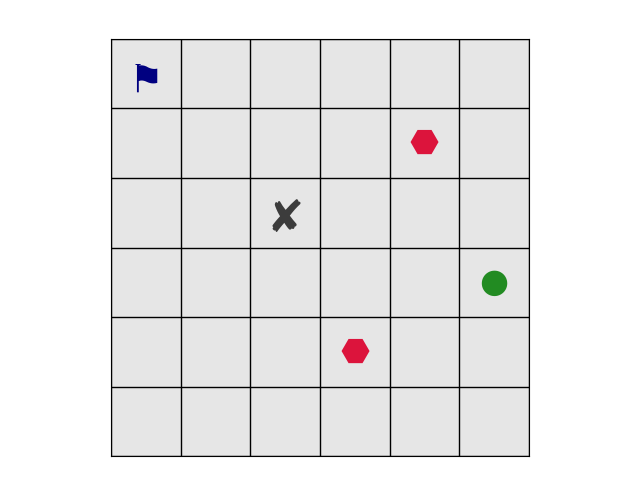
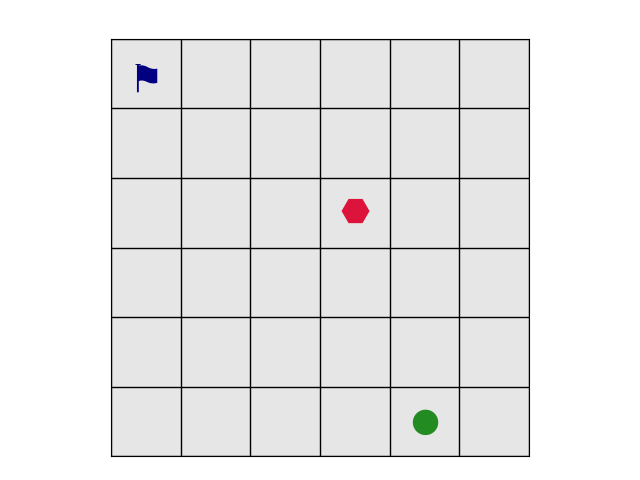
Updated descriptions

diff --git a/README.md b/README.md
@@ -3,23 +3,25 @@
 ---
 
 ## Introduction
-The goal of this project is to implement the value iteration algorithm in a 6x6 grid, populated by a goal, 
-an agent and a number of enemies. Through the algorithm we can define an optimal policy so that our agent
-can reach the goal while avoiding obstacles and enemies. 
+The goal of this project is to implement the value iteration algorithm in a grid, populated by a goal, 
+an agent and a fail cell. Both the goal and the fail cell can move randomly within the grid. Through the algorithm we can define an optimal policy so that our agent
+can reach the goal while avoiding failure. 
 
 The main step in algorithm hinges on a modified version of the Bellman optimality equation
  where the value function is iteratively improved by optimizing with respect to the previous decisions.
 
 <p align="center">
-<img src="https://latex.codecogs.com/png.image?\large\dpi{600}\bg{white}V_{k&plus;1}(x_a,x_g,x_f)=\max_u\left[r(x_a,u)&plus;\sum_{x_a',x_g',x_f'\in\,\mathbb{X}}\phi(x_a'|x_a,u)\;\phi(x_g'|x_g)\;\phi(x_f'|x_f)V_k(x_a',x_g',x_f')\right]" width="800" alt="Value Iteration step formula">
+<img src="https://latex.codecogs.com/png.image?\large\dpi{600}\bg{white}V_{k&plus;1}(x_a,x_g,x_f)=\max_u\left[r(x_a,u)&plus;\sum_{x_a',x_g',x_f'\in\,\mathbb{X}}\phi(x_a'|x_a,u)\;\phi(x_g'|x_g)\;\phi(x_f'|x_f)V_k(x_a',x_g',x_f')\right]" width="1000" alt="Value Iteration step formula">
 </p>
 where
 
-- 𝑥, 𝑥' ∈ 𝕏 (state space)
-- 𝑢 ∈ 𝕌 (action space)
-- φ(𝑥'|𝑥,𝑢) is the probability density function expressing the probability of transitioning from state 𝑥 to state 
-𝑥' when 𝑢 is applied
-- 𝑟(𝑥,𝑢) is the immediate reward received by the agent in state 𝑥 when taking action 𝑢
+- 𝕏 is the state space
+- 𝕌 is the action space
+- φ is the probability density function expressing the probability of transitioning from state to another.
+In the agent's case, it depends both on agent's position and the action taken. For the goal and the fail state, 
+the transition probability depends only on their current position.
+- 𝑟 is the immediate reward received by the agent in a state when taking a certain action
+
 
 From the optimal values 𝑉 computed in the algorithm, we can extract the optimal policy as 
 
@@ -33,14 +35,14 @@ From the optimal values 𝑉 computed in the algorithm, we can extract the optim
 In the following image we can see an example of the populated grid where:
 - &#9873; is the goal
 - <span STYLE="font-size:14.0pt"> ● </span>is the agent
-- &#11043; are the enemies
-- ✘ is the obstacle
+- &#11043; is the fail state
 
 <p align="center">
-<img src="/img/Base_grid.png" width="500" height="375">
+<img src="/img/Base_grid.png" width="440"  alt="Base grid with a goal, a fail state and an agent">
 </p>
-The reward for reaching the goal is +1 while the reward for being captured by the enemy is -1. For all the
-other cells, the reward is -0.04 to incentivize the agent to quickly reach the goal.
+
+The reward for reaching the goal is +1 while the reward for stepping on the fail state is -1. For all the
+other cells the reward is -0.04 to incentivize the agent to quickly reach the goal.
 
 ### Synchronous Value Iteration
 In the synchronous version of Value Iteration, all states are updated at each iteration. In this 
@@ -48,7 +50,7 @@ implementation, the algorithm stops when the change in the values between iterat
 than the threshold ε.
 
 <p align="center">
-<img src="/img/sync_plot.png" width="700" height="420">
+<img src="/img/sync_plot.png" width="700" >
 </p>
 
 ### Asynchronous Value Iteration
@@ -58,7 +60,7 @@ synchronous counterpart. Termination is guaranteed provided that all the states 
  often.
 
 <p align="center">
-<img src="/img/async_plot.png" width="700" height="420">
+<img src="/img/async_plot.png" width="700">
 </p>
 
 ---
